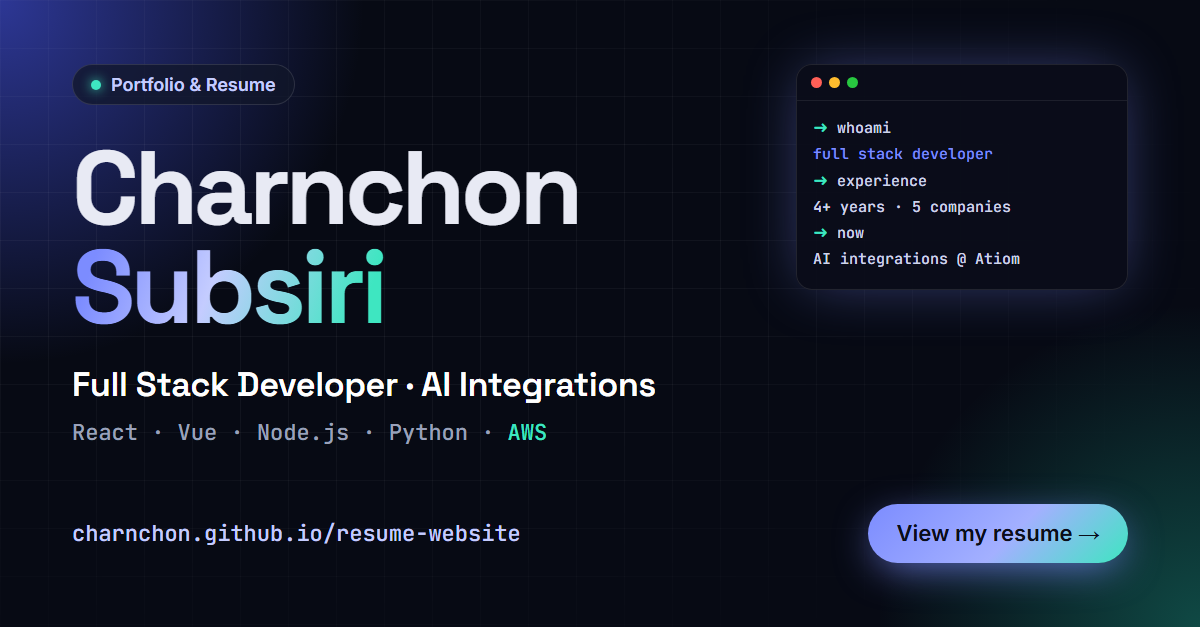
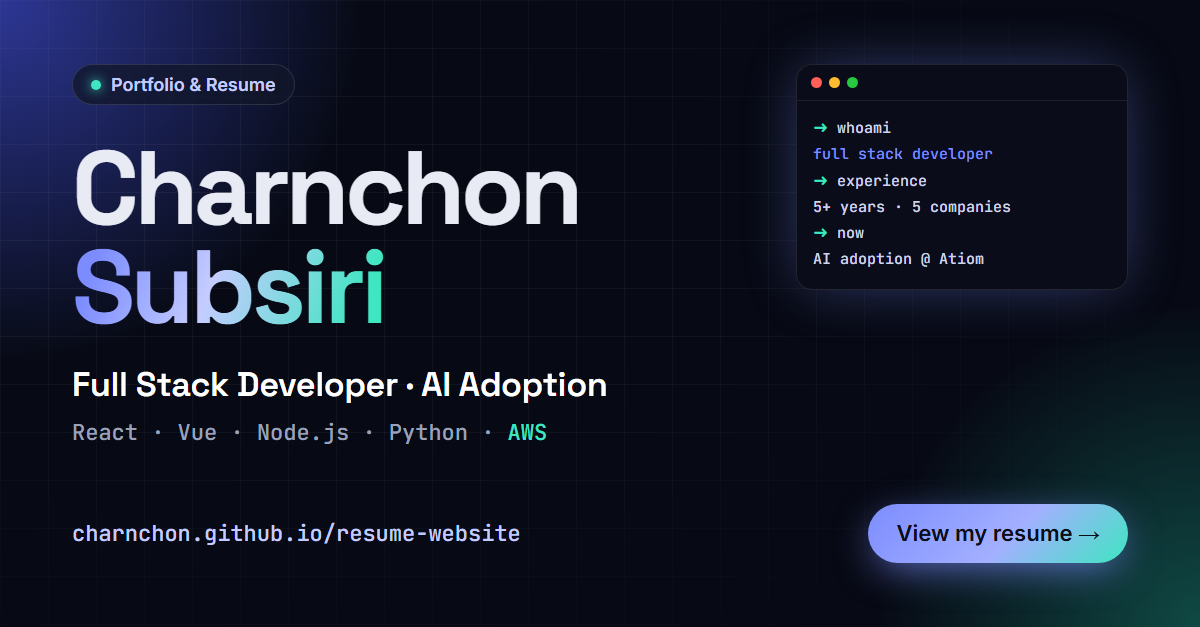
Update to 5+ years and give each section a clear purpose
- Hero, meta tags, stats, terminal and preview image now say 5+ years
- Add headings/intro lines so each section states what it shows
- Reframe the featured card around AI adoption

Changed region(s): [[0.37, 0.5758, 0.555, 0.6667], [0.6783, 0.3939, 0.8633, 0.4242]]

diff --git a/index.html b/index.html
@@ -4,11 +4,11 @@
   <meta charset="utf-8" />
   <meta name="viewport" content="width=device-width, initial-scale=1" />
   <title>Charnchon Subsiri — Full Stack Developer</title>
-  <meta name="description" content="Charnchon Subsiri — Full Stack Developer with 4+ years building web platforms with React, Vue, Node.js and Python on AWS. Currently building AI integrations (MCP + Claude) at Atiom." />
+  <meta name="description" content="Charnchon Subsiri — Full Stack Developer with 5+ years building web platforms, now helping teams adopt AI in real products." />
   <meta property="og:type" content="website" />
   <meta property="og:url" content="https://charnchon.github.io/resume-website/" />
   <meta property="og:title" content="Charnchon Subsiri — Full Stack Developer | Portfolio & Resume" />
-  <meta property="og:description" content="Full Stack Developer with 4+ years of experience in React.js, Vue.js, Node.js and Python on AWS, now building AI integrations. View my experience, projects, and download my resume." />
+  <meta property="og:description" content="Full Stack Developer with 5+ years building web platforms, now helping teams adopt AI in real products. View my experience, projects, and download my resume." />
   <meta property="og:image" content="https://charnchon.github.io/resume-website/assets/og-image.png" />
   <meta property="og:image:width" content="1200" />
   <meta property="og:image:height" content="627" />
@@ -47,11 +47,11 @@
     <!-- HERO -->
     <section class="hero container">
       <div class="hero-copy">
-        <p class="eyebrow reveal"><span class="dot"></span> Building AI integrations at Atiom</p>
+        <p class="eyebrow reveal"><span class="dot"></span> Full Stack Developer · AI adoption at Atiom</p>
         <h1 class="reveal">Charnchon<br /><span class="grad">Subsiri</span></h1>
         <p class="lede reveal">
-          Full Stack Developer with <strong>4+ years</strong> building web platforms with React, Vue, Node.js and Python on AWS —
-          lately, the bridge between AI and real products.
+          <strong>5+ years</strong> building web platforms end to end — now helping teams turn AI into something
+          people actually use every day.
         </p>
         <div class="cta reveal">
           <button class="btn btn-primary" type="button" data-open-resume>
@@ -83,6 +83,7 @@
     <section class="container about" id="about">
       <div class="about-copy reveal">
         <p class="kicker">About me</p>
+        <h2 class="about-title">Who I am</h2>
         <p class="about-text">
           I am a passionate software engineer who enjoys every moment and second of my daily journey to learn new things.
         </p>
@@ -134,35 +135,39 @@
       </div>
     </section>
 
-    <!-- STATS -->
-    <section class="container stats">
-      <div class="stat reveal"><b data-count="4">0</b><span>+ years shipping<br />production software</span></div>
-      <div class="stat reveal"><b data-count="5">0</b><span>companies across insurance,<br />media &amp; HR tech</span></div>
-      <div class="stat reveal"><b data-count="3.74" data-decimals="2">0</b><span>GPA, first-class honors<br />Chiang Mai University</span></div>
-      <div class="stat reveal"><b>MCP</b><span>server built from scratch<br />so Claude can edit content</span></div>
+    <!-- AT A GLANCE -->
+    <section class="container glance">
+      <p class="kicker reveal">At a glance</p>
+      <div class="stats">
+        <div class="stat reveal"><b data-count="5">0</b><span>+ years shipping<br />production software</span></div>
+        <div class="stat reveal"><b data-count="5">0</b><span>companies across insurance,<br />media &amp; HR tech</span></div>
+        <div class="stat reveal"><b data-count="3.74" data-decimals="2">0</b><span>GPA, first-class honors<br />Chiang Mai University</span></div>
+        <div class="stat reveal"><b>AI</b><span>adoption built into<br />a live product</span></div>
+      </div>
     </section>
 
-    <!-- FEATURED -->
+    <!-- CURRENT FOCUS -->
     <section class="container featured reveal">
       <div class="card spot feature-card">
         <div>
-          <p class="kicker">Currently · Atiom (Thailand)</p>
-          <h2>Letting Claude work directly inside the product.</h2>
+          <p class="kicker">Current focus · Atiom (Thailand)</p>
+          <h2>Turning AI into something people actually use.</h2>
           <p>
-            I built an MCP (Model Context Protocol) server from scratch with TypeScript and Express on AWS Fargate, so AI
-            clients like Claude can create and edit Modules, Quizzes, QA Pools and Surveys right in the Hub content editor —
-            with a PAT-to-JWT token exchange and an SSE-based session relay designed alongside the backend team.
+            Good AI adoption isn't about the newest model. It's about understanding how people work, finding where AI
+            genuinely saves time, and building it in a way they can trust.
           </p>
-          <ul class="tags">
-            <li>TypeScript</li><li>Express</li><li>AWS Fargate</li><li>MCP</li><li>SSE</li><li>JWT</li>
+          <ul class="focus-list">
+            <li>Connected AI assistants directly to our platform, so content teams can create and update training material just by asking</li>
+            <li>Designing an in-product AI assistant that takes repetitive admin tasks off people's plates</li>
+            <li>Used AI to organize large volumes of client content in bulk, replacing slow manual work</li>
           </ul>
         </div>
         <div class="flow" aria-hidden="true">
-          <div class="node">Claude</div>
+          <div class="node">People ask</div>
           <div class="wire"><i></i></div>
-          <div class="node node-accent">MCP Server</div>
+          <div class="node node-accent">AI assistant</div>
           <div class="wire"><i></i></div>
-          <div class="node">Hub Editor</div>
+          <div class="node">Product updates</div>
         </div>
       </div>
     </section>
@@ -172,6 +177,7 @@
       <div class="section-head reveal">
         <p class="kicker">Experience</p>
         <h2>Where I've worked</h2>
+        <p class="section-sub">5+ years across media, insurance and HR tech — from internship to bringing AI into a live product.</p>
       </div>
 
       <ol class="timeline">
@@ -269,7 +275,8 @@
     <section class="container section" id="projects">
       <div class="section-head reveal">
         <p class="kicker">Freelance</p>
-        <h2>Side projects for clients</h2>
+        <h2>Client projects</h2>
+        <p class="section-sub">Independent work for clients outside my full-time roles, across mobile and web.</p>
       </div>
       <div class="cards-3">
         <article class="card spot project reveal">
@@ -298,6 +305,7 @@
       <div class="section-head reveal">
         <p class="kicker">Toolbox</p>
         <h2>Technical skills</h2>
+        <p class="section-sub">What I use to design, build and ship — grouped by where it fits.</p>
       </div>
       <div class="skills">
         <div class="card skill-group reveal">
@@ -353,7 +361,7 @@
       <div class="card contact-card reveal">
         <p class="kicker">Contact</p>
         <h2>Let's build something <span class="grad">together.</span></h2>
-        <p>Open to conversations about full stack roles, AI integrations, and interesting problems.</p>
+        <p>Open to conversations about full stack roles, AI adoption, and interesting problems.</p>
         <div class="cta">
           <a class="btn btn-primary" href="mailto:Boatcharnchon@gmail.com">Boatcharnchon@gmail.com</a>
           <button class="btn btn-ghost" type="button" data-open-resume>View resume</button>

diff --git a/styles.css b/styles.css
@@ -161,8 +161,15 @@ ul, ol { margin: 0; padding: 0; list-style: none; }
 .game-desc { margin: 14px 0 16px; font-size: 14.5px; color: var(--muted); }
 .game-actions { display: flex; flex-wrap: wrap; gap: 10px; }
 
+.about-title { font-size: clamp(30px, 4vw, 42px); margin-bottom: 18px; }
+.section-sub { margin-top: 12px; max-width: 620px; font-size: 17px; color: var(--muted); }
+.focus-list { margin-top: 18px; display: grid; gap: 10px; }
+.focus-list li { position: relative; padding-left: 26px; color: #d3d7e8; font-size: 15.5px; }
+.focus-list li::before { content: "→"; position: absolute; left: 0; color: var(--accent-2); font-weight: 600; }
+
 /* ---------- Stats ---------- */
-.stats { margin-top: 88px; display: grid; grid-template-columns: repeat(4, 1fr); gap: 1px; background: var(--border); border: 1px solid var(--border); border-radius: var(--radius); overflow: hidden; }
+.glance { margin-top: 88px; }
+.stats { display: grid; grid-template-columns: repeat(4, 1fr); gap: 1px; background: var(--border); border: 1px solid var(--border); border-radius: var(--radius); overflow: hidden; }
 .stat { background: var(--surface-solid); padding: 28px 24px; }
 .stat b { display: block; font: 700 44px/1 var(--display); letter-spacing: -0.03em; margin-bottom: 10px;
   background: linear-gradient(120deg, #fff, var(--accent)); -webkit-background-clip: text; background-clip: text; color: transparent; }

diff --git a/script.js b/script.js
@@ -83,7 +83,7 @@
     { cmd: "claude mcp add atiom-hub" },
     { out: '<span class="ok">✓</span> connected · Modules, Quizzes, QA Pools, Surveys' },
     { cmd: "git log --oneline --since=2021 | wc -l" },
-    { out: '<span class="c"># 4+ years of commits across 5 companies</span>' },
+    { out: '<span class="c"># 5+ years across 5 companies</span>' },
     { cmd: "open ./resume.pdf" },
   ];
   const prompt = '<span class="p">➜</span> <span class="hl">~</span> ';
